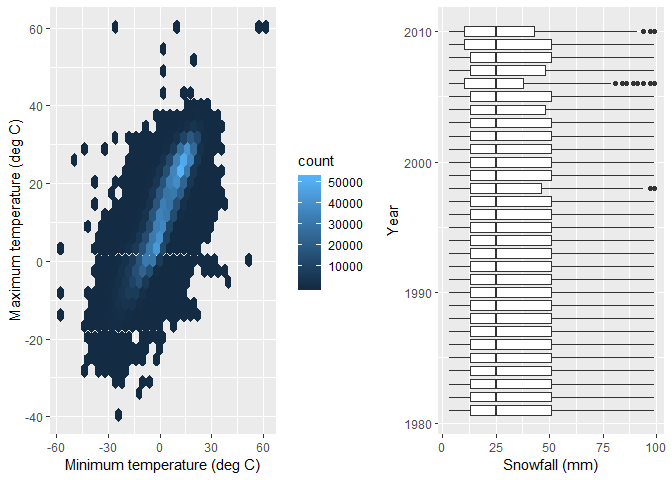
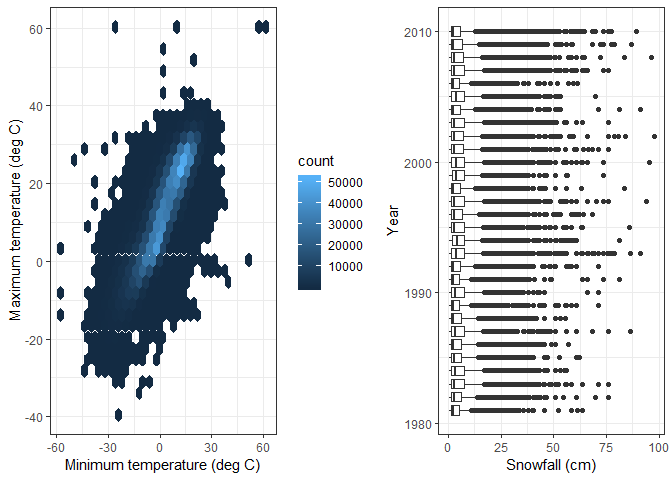
Final edits to plots and tables. Summaries and descriptions added.

diff --git a/p8105_hw3_azz2107.md b/p8105_hw3_azz2107.md
@@ -34,10 +34,15 @@ brfss_df
     ## 10  2010 AL           AL - Mobile County    Poor             6.4
     ## # ... with 10,615 more rows
 
+The BRFSS dataset contains health-related data from surveys of selected counties within the United States. In this problem, we are primarily focusing on how individuals reported their "Overall Health" from 2002 to 2010. This dataset contains 10625 observations and 5 variables. Key variables include state and county locations, year the observations were taken, responses to the question of overall health (ie. excellent, fair, poor) and proportions of these responses.
+
 #### Subset the dataset into number of locations per state in 2002
 
+We are interested in counting how many locations (counties) were surveyed in each state.
+
 ``` r
-# Subset brfss dataset to count number of locations in each state
+# Subset brfss dataset by survey locations
+# Count number of responses
 filter(brfss_df, year == 2002) %>% 
   distinct(locationabbr, locationdesc) %>% 
   group_by(locationabbr) %>% 
@@ -52,7 +57,7 @@ filter(brfss_df, year == 2002) %>%
 | FL           |    7|
 | NC           |    7|
 
-In 2002, there were three states (CT, FL, and NC) that observed seven locations.
+In 2002, there were three states (CT, FL, and NC) that obtained survey answers from seven locations.
 
 #### Spaghetti plot
 
@@ -77,17 +82,21 @@ spaghetti_plot %>%
     y = "Number of Locations",
     caption = "BRFSS Dataset"
   ) + 
-  theme(legend.position = "none")
+  theme(legend.position = "bottom", legend.box = "horizontal")
 ```
 
 ![](p8105_hw3_azz2107_files/figure-markdown_github/spaghetti_plot-1.png)
 
-#### Descriptive variables for "Excellent" proportions in 2002, 2006, and 2010
+Most states were surveyed at 10 or fewer locations. A couple states had been surveyed between 10 and 20 locations. There were two extreme cases where two states were surveyed at 40+ locations in 2007 and 2010.
+
+#### Descriptive variables "Excellent" proportions across New York State in 2002, 2006, and 2010
 
 ``` r
 # Summarize descriptive variables to make a table
 brfss_df %>% 
-  filter(year %in% c(2002, 2006, 2010), response == "Excellent") %>% 
+  filter(year %in% c(2002, 2006, 2010), 
+         response == "Excellent", 
+         locationabbr == "NY") %>% 
   group_by(year) %>% 
   summarize(mean_excellent = mean(data_value, na.rm = TRUE),
             std_excellent = sd(data_value, na.rm = TRUE)) %>% 
@@ -96,9 +105,11 @@ brfss_df %>%
 
 |  year|  mean\_excellent|  std\_excellent|
 |-----:|----------------:|---------------:|
-|  2002|         23.95806|        4.642574|
-|  2006|         22.41068|        4.095734|
-|  2010|         21.46890|        4.250867|
+|  2002|         24.04000|        4.486424|
+|  2006|         22.53333|        4.000833|
+|  2010|         22.70000|        3.567212|
+
+Between 2002, 2006, and 2010 the average proportion of "excellent" responses does not differ by much. The highest average occured in 2002 with 24.04% responding they had excellent health and a standard deviation of 4.48%. Meanwhile, the lowest average occured in 2006 with 22.53% responding they had excellent health and a standard deviation of 4.00%.
 
 #### Five-panel plot, distribution of responses
 
@@ -110,13 +121,13 @@ response_df = brfss_df %>%
 
 # Plot distributions in five panels
 response_df %>% 
-  ggplot(aes(x = year, y = mean_prop)) + 
-  geom_line(aes(color = locationabbr)) + 
+  ggplot(aes(x = year, y = mean_prop, color = as.factor(year))) + 
+  geom_boxplot(aes(group = year)) + 
   facet_grid(.~response) + 
   labs(
     title = "Distribution of response proportions by state-level, 2002-2010",
     x = "Year",
-    y = "State level averages",
+    y = "State level averages (%)",
     caption = "BRFSS dataset"
   ) + 
   viridis::scale_color_viridis(
@@ -128,6 +139,8 @@ response_df %>%
 ```
 
 ![](p8105_hw3_azz2107_files/figure-markdown_github/response_df-1.png)
+
+Overall, year to year we see that response proportions remain around the same percentage. The highest proportions of responses fall under "Very good", "Good", and "Excellent" categories. The lowest proportions of responses fall under "Fair" and "Poor" categories. There also appears to be slightly more variance in the "Poor" category with more outliers. Based off of this figure, we might be able to conclude that between 2002 and 2010, Americans generally felt at least good or even better of their overall health.
 
 Problem 2
 ---------
@@ -159,7 +172,7 @@ instacart_df
     ## #   days_since_prior_order <int>, product_name <chr>, aisle_id <int>,
     ## #   department_id <int>, aisle <chr>, department <chr>
 
-Instacart is an online grocery shopping company, and the instacard dataset contains information on online grocery orders from their customers. The instacart dataset includes 1384617 observations and 15 variables. Some of these key variables include product name, food aisle information (name, number, department), time or order (day of the week, hour of the day, days since last ordered). For example, there are 21 departments which range from snacks, frozen foods, to dairy and eggs...
+Instacart is an online grocery shopping company, and the instacard dataset contains information on online grocery orders from their customers. The instacart dataset includes 1384617 observations and 15 variables. Some of these key variables include product name, food aisle information (name, number, department), time or order (day of the week, hour of the day, days since last ordered). For example, there are 21 departments which include snacks, frozen foods, and dairy and eggs. On average, most customers will make orders on 2.7013918 day, which according to the datasets key is between Tuesday or Wednesday. The most popular time to place orders is at 13.5775922 hours.
 
 #### Aisle information
 
@@ -200,7 +213,7 @@ ggplot(aisle_count, aes(x = log(n), y = aisle)) +
   facet_grid(rows = vars(department), scales = "free", space = "free") + 
   labs(
     title = "Number of items ordered by aisle",
-    x = "Number of items ordered (log(n))",
+    x = "Log(Number of items ordered)",
     y = "Aisle name"
   ) + 
   theme(axis.ticks = element_blank(), 
@@ -209,6 +222,8 @@ ggplot(aisle_count, aes(x = log(n), y = aisle)) +
 ```
 
 ![](p8105_hw3_azz2107_files/figure-markdown_github/plot_aisle_count-1.png)
+
+Based off of this figure, the most popular products fall under produce (fresh vegetables and fruits) as well as dairy (yogurt and packaged cheese). Some of the least bought products include baby accessories and baby bath/body care, beauty products, and frozen juice.
 
 #### Popular aisle items
 
@@ -231,6 +246,8 @@ instacart_df %>%
 | baking ingredients         | Light Brown Sugar                             |   499|              1|
 | dog food care              | Snack Sticks Chicken & Rice Recipe Dog Treats |    30|              1|
 | packaged vegetables fruits | Organic Baby Spinach                          |  9784|              1|
+
+In the baking ingredient aisle, light brown sugar is the most commonly bought item with it being bought 499 times. Under dog food care, snack sticks chicken and rice recipe dog treats are the most popular item with 30 counts of purchase. Among packaged vegetables and fruits, organic baby spinach is the most popular with 9,784 counts of purchase.
 
 #### Average time of day
 
@@ -265,11 +282,15 @@ Problem 3
 
 ``` r
 # Load NY NOAA Summary and clean
+# Separate date into month, day, and year variables
+# Divide tmax and tmin temperatures by 10 to change units to deg Celsius
+# Change snowfall to centimeters
 ny_noaa_df = ny_noaa %>% 
   separate(date, into = c("year", "month", "day"), sep = "-") %>% 
-  mutate(year = as.integer(year),
-         month = as.integer(month),
-         day = as.integer(day),
+  mutate(year = as.numeric(year),
+         month = as.numeric(month),
+         day = as.numeric(day),
+         snow = as.numeric(snow)/10,
          tmax = as.integer(tmax)/10,
          tmin = as.integer(tmin)/10)
 
@@ -278,7 +299,7 @@ ny_noaa_df
 
     ## # A tibble: 2,595,176 x 9
     ##    id           year month   day  prcp  snow  snwd  tmax  tmin
-    ##    <chr>       <int> <int> <int> <int> <int> <int> <dbl> <dbl>
+    ##    <chr>       <dbl> <dbl> <dbl> <int> <dbl> <int> <dbl> <dbl>
     ##  1 US1NYAB0001  2007    11     1    NA    NA    NA    NA    NA
     ##  2 US1NYAB0001  2007    11     2    NA    NA    NA    NA    NA
     ##  3 US1NYAB0001  2007    11     3    NA    NA    NA    NA    NA
@@ -291,13 +312,17 @@ ny_noaa_df
     ## 10 US1NYAB0001  2007    11    10    NA    NA    NA    NA    NA
     ## # ... with 2,595,166 more rows
 
-In this dataset, r length((rowSums(is.na(ny\_noaa\_df))))/nrow(ny\_noaa\_df)\` of observations have missing variables.
+The NY NOAA dataset records weather and climate related information from the weather stations located in New York state, between 1980 to 2010. This dataset has 2595176 observations and 9 variables. Some key variables include weather station ID, date, precipitation amounts (precipitation, snowfall, snow depth), and temperatures (minimum and maximum). For example, the average snowfall in 2007 was 0.7436284 mm. That same year, the average minimum temperature recorded in thiswas 2.8787028 deg C. The average maximum temperature recorded in 2007 was NA deg C. It should be noted, that there are a significant amount of missing data in this dataset. For example, the following percentages are proportions of missing values for a couple of variables:
+\* 5.62% of precipitation variables have missing values.
+\* 43.71% of maximum temperature values have missing values.
+\* 14.69% of snowfall measurements have missing values.
 
 #### Maximum temperature
 
 ``` r
 tmax_plot = ny_noaa_df %>%
   filter(month %in% c(1, 7), !(is.na(tmax))) %>% 
+  mutate(month = factor(month, levels = c(1,7), labels = c("January", "July"))) %>% 
   group_by(id, year, month) %>% 
   summarize(mean_max_temp = mean(tmax, na.rm = TRUE))
 
@@ -312,14 +337,15 @@ tmax_plot %>%
     discrete = TRUE
   ) + 
   labs(
-    title = "Average weather station maximum temperatures in January and July, 1980 - 2010",
+    title = "Average maximum temperatures by weather station, 1980 - 2010",
     x = "Year",
     y = "Average maximum temperature (deg C)",
-    caption = "NY NOAA Dataset"
-  )
+    caption = "NY NOAA Dataset")
 ```
 
 ![](p8105_hw3_azz2107_files/figure-markdown_github/tmax_plot-1.png)
+
+In January, the average maximum temperature was significantly lower than in July as one would expect. Over the years, the average maximum temperature in January fluctuates frequently. In comparison, July saw a pretty constant average maximum temperature over the years. There are perhaps a couple of unusual years, in January 1994 and 2004 there were some incredibly cold winters. In July, there is one weather station record that stands out as an outlier. Around 1997 or 1998, one weather station reported a very low average maximum temperature at around 14 deg C.
 
 #### Two panel temperature and snowfall plots
 
@@ -336,12 +362,13 @@ noaa_hexplot = ny_noaa_df %>%
 # Create a barplot of snowfall by year
 noaa_barplot = ny_noaa_df %>% 
   filter(snow > 0 & snow < 100) %>% 
-  ggplot(aes(x = year, y = snow)) + 
-  geom_boxplot(aes(group = year)) + 
+  group_by(year) %>% 
+  ggplot(aes(x = year, y = snow, group = year)) + 
+  geom_boxplot() + 
   coord_flip() + 
   labs(
     x = "Year",
-    y = "Snowfall (mm)"
+    y = "Snowfall (cm)"
     )
 
 noaa_hexplot + noaa_barplot
@@ -350,3 +377,7 @@ noaa_hexplot + noaa_barplot
     ## Warning: Removed 1136276 rows containing non-finite values (stat_binhex).
 
 ![](p8105_hw3_azz2107_files/figure-markdown_github/two_panel_temp_snowfall-1.png)
+
+From the maximum temperature vs. minimum temperature plot, a higher minimum temperature is correlated with a higher maximum temperature on the same day. Additionally, the most common temperatures correlated with each other is in the light blue area of the graph where minimum temperature ranges from approximated -15 deg C to 15 deg C and maximum temperature ranges from approximated -10 deg C to 30 deg C. Where the plot is dark colored, there are outliers. For example there was a day where minimum temperature was around 50 deg C and the maximum temperature was 0 deg C. This may resulted from data input error.
+
+In the distribution of snowfall by year plot, there does not appear to be much difference or change in the amount of snowfall between 1980 to 2010. This plot does show that there is variance from year to year. Some years have extreme outliers. 2002 and 2008 are some examples of this, where there are several large values for snowfall.
